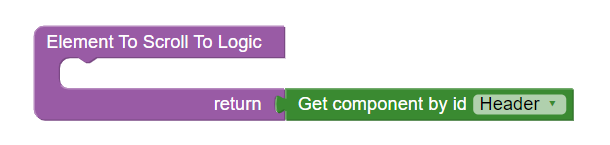
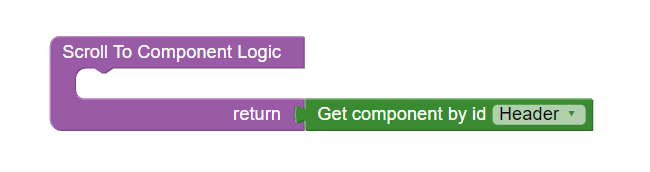
changes in approach

Changed region(s): [[0.0311, 0.1655, 0.9656, 0.8552], [0.4672, 0.2207, 0.4984, 0.3862]]

diff --git a/components/bl-totop-component/src/index.js b/components/bl-totop-component/src/index.js
@@ -1,32 +1,38 @@
-import { useRef } from "react";
+import { useRef, useMemo, useEffect } from "react";
 
 const { cn } = BackendlessUI.CSSUtils;
 
-const Transform = {
-  MAIN: "50%",
-  X: "translateX(-50%)",
-  Y: "translateY(-50%)",
+const AxisClassesMap = {
+  X: { left: "start-0", right: "end-0", center: "start-50 translate-middle-x" },
+  Y: { top: "top-0", bottom: "bottom-0", center: "top-50  translate-middle-y" },
 };
 
 export default function TotopComponent({ component }) {
-  const { classList, offset, position, backgroundColor, color, size, iconSize, indent = "20px", element } = component;
+  const { classList, offset, position, backgroundColor, color, size, iconSize, indentX, indentY, element } = component;
 
-  const styles = {
-    backgroundColor,
-    width: size,
-    height: size,
-    top: position.includes("top") ? indent : position.includes("center-") ? Transform.MAIN : undefined,
-    bottom: position.includes("bottom") ? indent : position.includes("center-") ? Transform.MAIN : undefined,
-    right: position.includes("right") ? indent : position.includes("-center") ? Transform.MAIN : undefined,
-    left: position.includes("left") ? indent : position.includes("-center") ? Transform.MAIN : undefined,
-    transform: position.includes("-center") ? Transform.X : position.includes("center-") ? Transform.Y : undefined,
-  };
+  const axisPositions = position.split("-");
 
-  const iconStyles = {
-    width: iconSize,
-    height: iconSize,
-    fill: color,
-  };
+  const classes = useMemo(() => {
+    return [...classList, AxisClassesMap.X[axisPositions[1]], AxisClassesMap.Y[axisPositions[0]]];
+  }, []);
+
+  const styles = useMemo(() => {
+    return {
+      backgroundColor,
+      width: size,
+      height: size,
+      "--totop-indent-x": indentX,
+      "--totop-indent-y": indentY,
+    };
+  }, []);
+
+  const iconStyles = useMemo(() => {
+    return {
+      width: iconSize,
+      height: iconSize,
+      fill: color,
+    };
+  }, []);
 
   const handleScroll = () => {
     window.scrollTo({ top: (element?.el?.offsetTop || 0) + offset, behavior: "smooth" });
@@ -34,18 +40,20 @@ export default function TotopComponent({ component }) {
 
   const totopRef = useRef();
 
-  component.el = totopRef.current;
+  useEffect(() => {
+    component.el = totopRef.current;
+  }, []);
 
   return (
-    <div ref={totopRef} className={cn("bl-customComponent-totop", classList)} style={styles} onClick={handleScroll}>
-      <TotopIcon iconStyles={iconStyles} />
+    <div ref={totopRef} className={cn("bl-customComponent-totop", classes)} style={styles} onClick={handleScroll}>
+      <TotopIcon styles={iconStyles} />
     </div>
   );
 }
 
-function TotopIcon({ iconStyles }) {
+function TotopIcon({ styles }) {
   return (
-    <div className="totop__icon" style={iconStyles}>
+    <div className="totop__icon" style={styles}>
       <svg viewBox="0 0 330 330">
         <path d="M325.606,229.393l-150.004-150C172.79,76.58,168.974,75,164.996,75c-3.979,0-7.794,1.581-10.607,4.394l-149.996,150c-5.858,5.858-5.858,15.355,0,21.213c5.857,5.857,15.355,5.858,21.213,0l139.39-139.393l139.397,139.393C307.322,253.536,311.161,255,315,255c3.839,0,7.678-1.464,10.607-4.394C331.464,244.748,331.464,235.251,325.606,229.393z" />
       </svg>

diff --git a/components/bl-totop-component/styles/index.less b/components/bl-totop-component/styles/index.less
@@ -6,10 +6,16 @@
 
 @bl-customComponent-totop-size: 40px;
 @bl-customComponent-totop-icon-size: 20px;
+@bl-customComponent-totop-indent: 20px;
 @bl-customComponent-totop-border-radius: 50%;
 @bl-customComponent-totop-z-index: 999;
 
 @bl-customComponent-totop-cursor: pointer;
+
+html {
+  --totop-indent-x: @bl-customComponent-totop-indent;
+  --totop-indent-y: @bl-customComponent-totop-indent;
+}
 
 .bl-customComponent-totop {
   display: flex;
@@ -37,3 +43,44 @@
     fill: @bl-customComponent-totop-themeTextColor;
   }
 }
+
+.start-0 {
+  left: var(--totop-indent-x);
+}
+
+.end-0 {
+  right: var(--totop-indent-x);
+}
+
+.top-0 {
+  top: var(--totop-indent-y);
+}
+
+.bottom-0 {
+  bottom: var(--totop-indent-y);
+}
+
+.start-50 {
+  left: 50%;
+}
+
+.top-50 {
+  top: 50%;
+}
+
+.translate-middle-x {
+  transform: translateX(-50%);
+}
+
+.translate-middle-y {
+  transform: translateY(-50%);
+}
+
+
+
+
+
+
+
+
+

diff --git a/components/bl-totop-component/README.md b/components/bl-totop-component/README.md
@@ -8,16 +8,17 @@ Totop is the component that can be used in Backendless [UI-Builder](https://back
 
 ## Properties
 
-| Property    | Type                                                                                                                                 | Default value  | Logic                      | Data Binding | UI Setting | Description                                                                                           |
-|-------------|--------------------------------------------------------------------------------------------------------------------------------------|----------------|----------------------------|--------------|------------|-------------------------------------------------------------------------------------------------------|
-| Position    | *Select* <br> [`bottom-right`, `bottom-left`, `bottom-center`, `top-right`, `top-left`, `top-center`, `center-right`, `center-left`] | `bottom-right` | Type Logic                 | NO           | YES        | Controls the position of the up button on the page.                                                   |
-| Element     |                                                                                                                                      |                | Element To Scroll To Logic | NO           | NO         | The logic to determine the element to which the scroll will be. Watch [Codeless Examples](#Examples). |
-| Offset      | *Number*                                                                                                                             |                |                            | NO           | YES        | Controls the scroll offset.                                                                           |
-| Background  | *Color*                                                                                                                              |                |                            | NO           | YES        | Controls the up button background.                                                                    |
-| Color       | *Color*                                                                                                                              |                |                            | NO           | YES        | Controls the color of the icon inside the up button.                                                  |
-| Button Size | *Text*                                                                                                                               |                |                            | NO           | YES        | Controls the size(width/height) of the up button.                                                     |
-| Icon Size   | *Text*                                                                                                                               |                |                            | NO           | YES        | Controls the size(width/height) of the icon inside the up button.                                     |
-| Indent      | *Text*                                                                                                                               |                |                            | NO           | YES        | Controls the indent of the up button from the edge of the page.                                       |
+| Property        | Type                                                                                                                                 | Default value  | Logic                     | Data Binding | UI Setting | Description                                                                                           |
+|-----------------|--------------------------------------------------------------------------------------------------------------------------------------|----------------|---------------------------|--------------|------------|-------------------------------------------------------------------------------------------------------|
+| position        | *Select* <br> [`bottom-right`, `bottom-left`, `bottom-center`, `top-right`, `top-left`, `top-center`, `center-right`, `center-left`] | `bottom-right` | Type Logic                | NO           | YES        | Controls the position of the up button on the page.                                                   |
+| element         |                                                                                                                                      |                | Scroll To Component Logic | NO           | NO         | The logic to determine the element to which the scroll will be. Watch [Codeless Examples](#Examples). |
+| offset          | *Number*                                                                                                                             |                |                           | NO           | YES        | Controls the scroll offset.                                                                           |
+| backgroundColor | *Color*                                                                                                                              |                |                           | NO           | YES        | Controls the up button background.                                                                    |
+| color           | *Color*                                                                                                                              |                |                           | NO           | YES        | Controls the color of the icon inside the up button.                                                  |
+| size            | *Text*                                                                                                                               |                |                           | NO           | YES        | Controls the size(width/height) of the up button.                                                     |
+| iconSize        | *Text*                                                                                                                               |                |                           | NO           | YES        | Controls the size(width/height) of the icon inside the up button.                                     |
+| indentX         | *Text*                                                                                                                               |                |                           | NO           | YES        | Controls the indent of the up button from the edge of the page horizontally.                          |
+| indentY         | *Text*                                                                                                                               |                |                           | NO           | YES        | Controls the indent of the up button from the edge of the page vertically.                            |
 
 ## Styles
 
@@ -31,6 +32,7 @@ Totop is the component that can be used in Backendless [UI-Builder](https://back
 ```
 @bl-customComponent-totop-size: 40px;
 @bl-customComponent-totop-icon-size: 20px;
+@bl-customComponent-totop-indent: 20px;
 @bl-customComponent-totop-border-radius: 50%;
 @bl-customComponent-totop-z-index: 999;
 ```
@@ -52,12 +54,4 @@ Below is a Codeless Example highlighting how to use the Totop component:
 
 <p align="center">
   <img src="./example-images/totop-data-example.png" alt="totop data example" width="500"/>
-</p>
-
-<p align="center">
-  <img src="./example-images/totop-data-example2.png" alt="totop data example2" width="780"/>
-</p>
-
-<p align="center">
-  <img src="./example-images/totop-data-example3.png" alt="totop data example3" width="500"/>
 </p>
